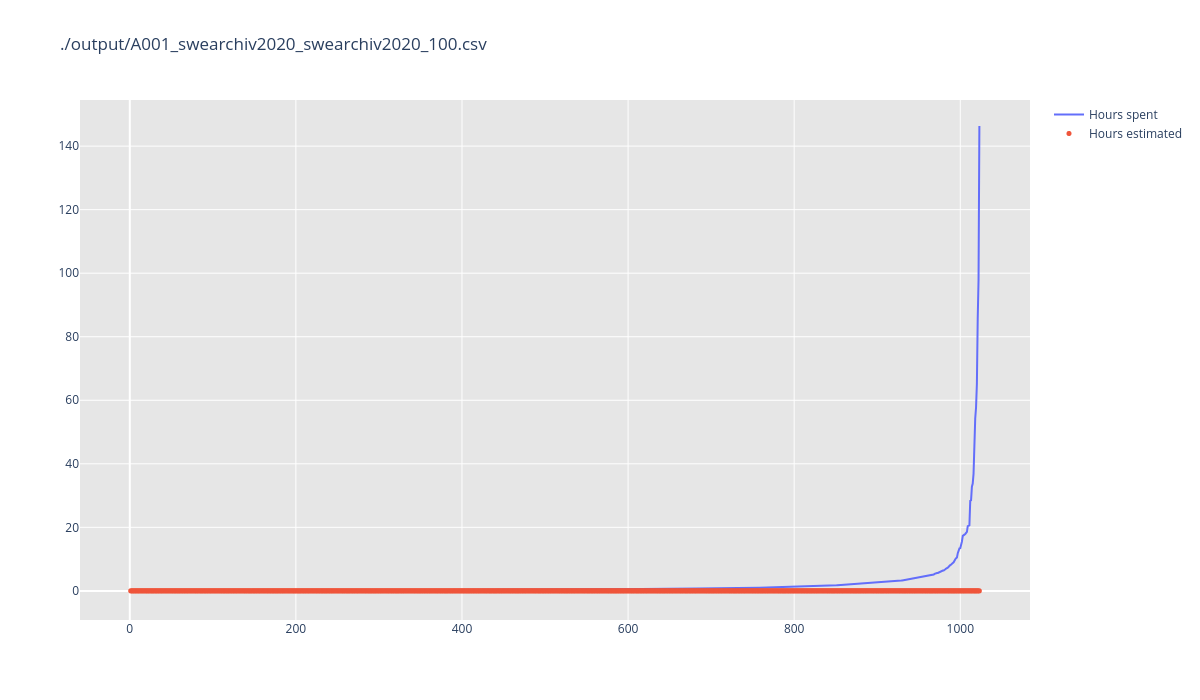
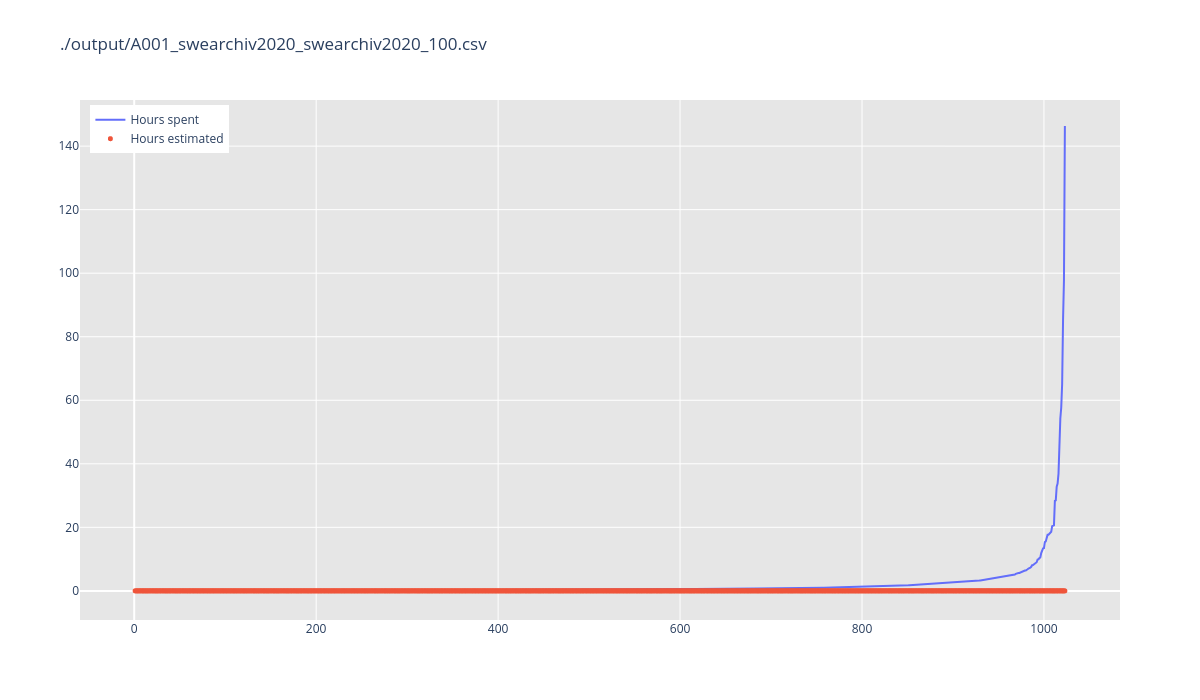
images update

Changed region(s): [[0.6475, 0.12, 0.9867, 0.9], [0.0617, 0.15, 0.2158, 0.24], [0.2467, 0.87, 0.2775, 0.9]]

diff --git a/Scripts/A001-analyse.py b/Scripts/A001-analyse.py
@@ -6,10 +6,11 @@ import plotly.express as px
 import numpy
 
 def convert_to_hours(columnName, row):
+    if row[columnName] == 0:
+        return 0.0
     numberAsString = row[columnName].replace(",", ".")
     number = float(numberAsString)
     hours = number / 60 / 60
-    #print("convert", numberAsString, "to", number, "=", hours, "h")
     return hours
 
 def create_image(filename):
@@ -19,16 +20,25 @@ def create_image(filename):
     df = df.sort_values('HoursSpent')
     df['Task'] = range(1,len(df)+1)
 
-    fig = px.scatter(df, y="HoursSpent", x="Task")
+    fig = go.Figure() 
+
+    fig.add_scatter(y=df["HoursSpent"], x=df["Task"], name="Hours spent")
     fig.add_scatter(x=df["Task"], y=df["HoursEstimated"], mode="markers", name="Hours estimated")
 
     fig.update_layout(
-        title='Hours spent per task and hours estimated (2020)',
+        title = filename,
         plot_bgcolor='rgb(230, 230,230)',
         showlegend=True)
 
+    fig.update_layout(
+        legend=dict(
+            yanchor="top",
+            y=0.99,
+            xanchor="left",
+            x=0.01
+        ))
+
     fig.update_traces(marker_size=5)
-    #fig.update_xaxes(visible=False, showticklabels=False)
 
     fig.write_image(filename + ".png", width=1200, height=700, scale=1)
     fig.show()
@@ -38,4 +48,15 @@ def analyse(filename):
 
 
 analyse('./output/A001_swearchiv2020_swearchiv2020_25.csv');
+analyse('./output/A001_swearchiv2020_swearchiv2020_50.csv');
+analyse('./output/A001_swearchiv2020_swearchiv2020_75.csv');
+analyse('./output/A001_swearchiv2020_swearchiv2020_80.csv');
+analyse('./output/A001_swearchiv2020_swearchiv2020_90.csv');
+analyse('./output/A001_swearchiv2020_swearchiv2020_100.csv');
 
+analyse('./output/A001_swearchiv2020_swearchiv2021_25.csv');
+analyse('./output/A001_swearchiv2020_swearchiv2021_50.csv');
+analyse('./output/A001_swearchiv2020_swearchiv2021_75.csv');
+analyse('./output/A001_swearchiv2020_swearchiv2021_80.csv');
+analyse('./output/A001_swearchiv2020_swearchiv2021_90.csv');
+analyse('./output/A001_swearchiv2020_swearchiv2021_100.csv');
